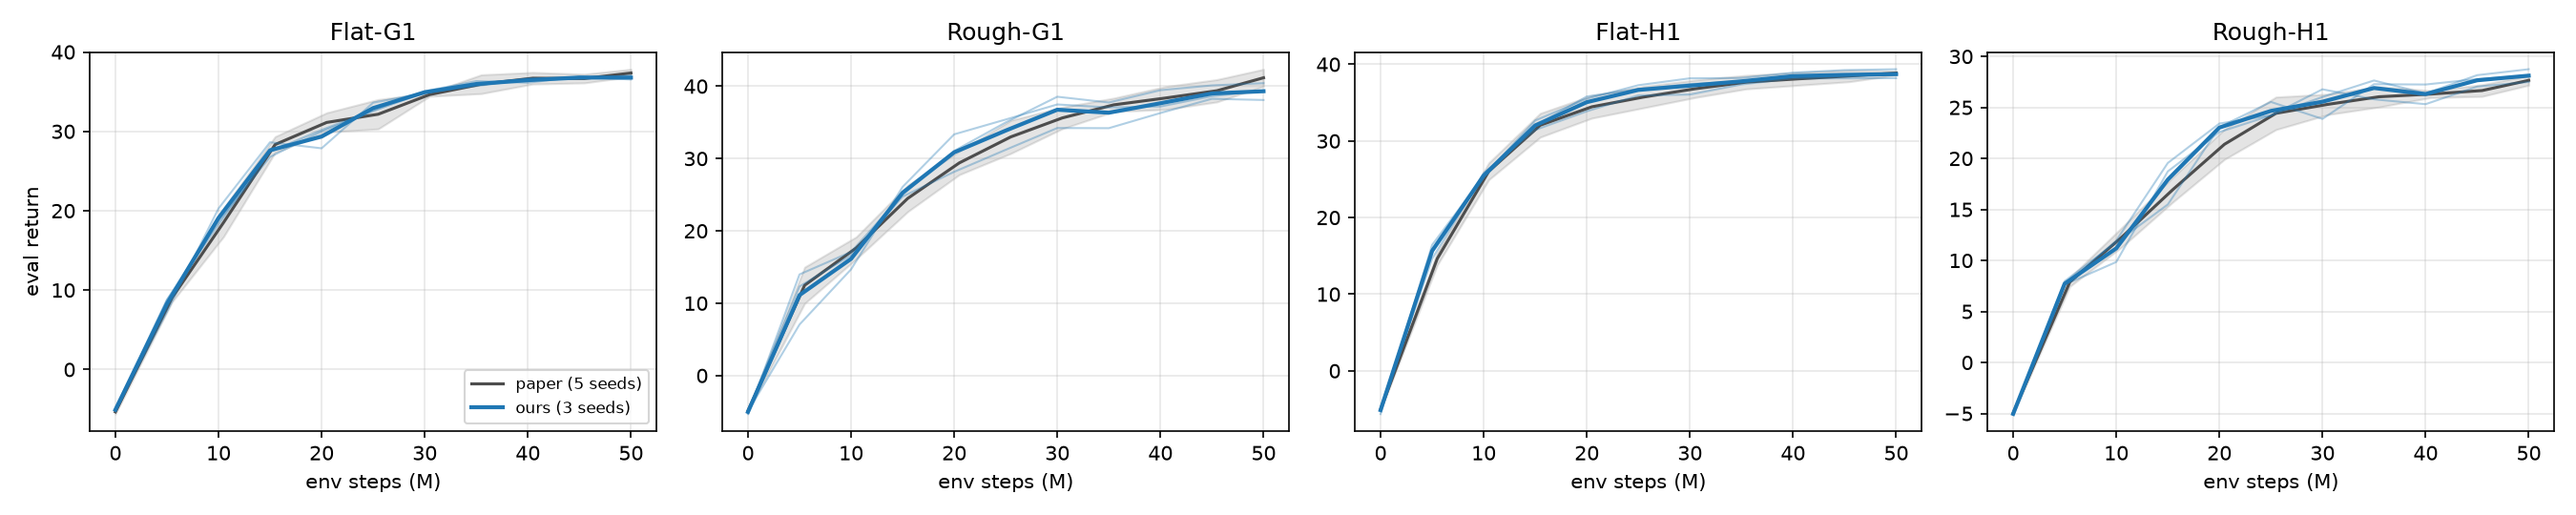
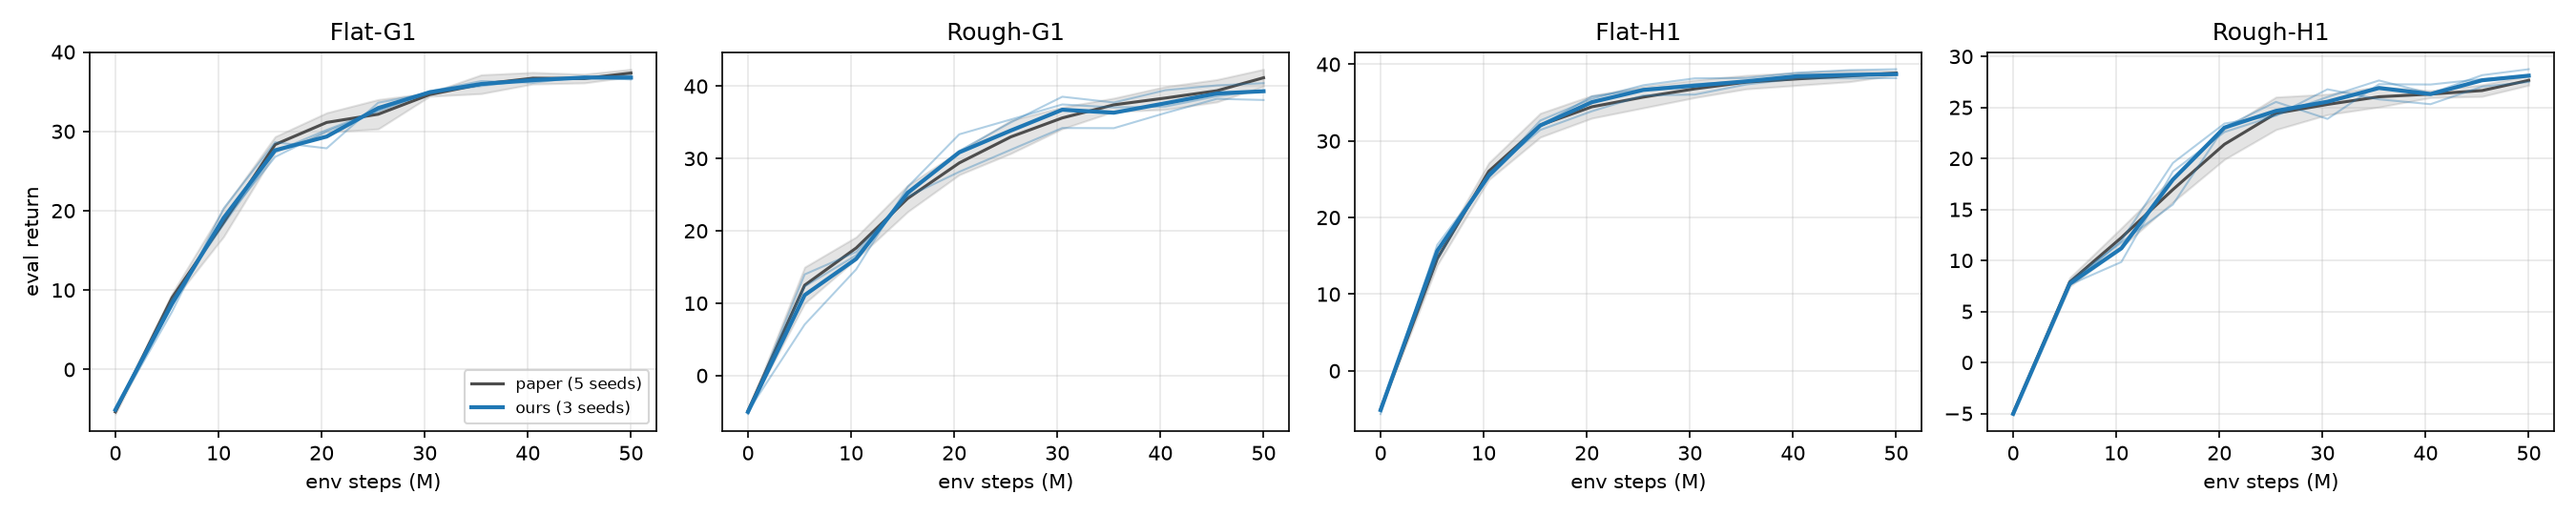
Fix step axis in compare_baseline.py; correct baseline AUC
8f03d7f plotted our evals at eval_env_step (5.00M, ...) but the paper CSV records
them at the next logging step (5.50M, ...). That shifted our curves ~0.5M steps
left and inflated our AUC. Both now use the logging step.

Corrected AUC, ours (3 seeds) vs paper (5 seeds), gap in combined SE:
  Flat-G1  27.38 vs 27.57 (-0.95)   [was 27.72]
  Rough-G1 28.06 vs 28.24 (-0.22)   [was 28.41]
  Flat-H1  31.05 vs 30.76 (+0.62)   [was 31.38]
  Rough-H1 19.99 vs 19.60 (+1.30)   [was 20.25]
This replaces the AUC numbers behind the claim in 8f03d7f. Returns and final
returns are unchanged; only env_step in uniform_d2_eval.csv changes.

Also: add AUC SD and gap columns, and warn when eval steps are off the paper grid.

diff --git a/scripts/compare_baseline.py b/scripts/compare_baseline.py
@@ -5,7 +5,9 @@ Reads logs/<group>/<exp>/<env>/seed*/metrics.csv (written by CsvTrainerLogger) a
   - <exp>_eval.csv: evaluation returns in the paper's long format (exp_name, env_name, seed, metric, env_step, value),
     so our curves and the paper curves can go through the same plotting code.
   - <exp>_summary.csv: one row per task (final return, normalized AUC, paper numbers, wall-clock, memory).
+    *_gap_z is (ours - paper) / combined standard error of the two means.
   - <exp>_curves.png: return vs. env steps (ours per seed + mean, paper mean +- SD).
+All env_step values are logging steps, as in the paper CSV, not the exact steps at which the evals ran.
 
 usage: python scripts/compare_baseline.py [--exp uniform_d2] [--group humanoid] [--out_dir results/ours]
 """
@@ -32,9 +34,10 @@ def load_run(path: str) -> dict:
     df = pd.read_csv(path)
     seed = int(os.path.basename(os.path.dirname(path)).split("_")[0].removeprefix("seed"))
     evals = df[df["avg_return"].notna()] if "avg_return" in df else df.iloc[0:0]
-    # the eval step is logged with each eval; the initial eval (step 0) and older logs only have the logging step
-    steps = evals["eval_env_step"].fillna(evals["env_step"]) if "eval_env_step" in evals else evals["env_step"]
-    curve = pd.DataFrame({"env_step": steps.values, "avg_return": evals["avg_return"].values})
+    # The paper CSV records an eval at the next logging step (the 5.00M eval at 5.50M, and so on), so use our logging
+    # step too. `eval_env_step` is when the eval really ran; mixing it with the paper's axis shifts our curves ~0.5M
+    # steps left and inflates our AUC. The last row is the mean of the last two evals (49.99M and 50.00M) in both.
+    curve = evals[["env_step", "avg_return"]]
     curve = curve.drop_duplicates("env_step", keep="last").sort_values("env_step")
     last = df.ffill().iloc[-1]  # last logged value of each column
     return {
@@ -56,8 +59,7 @@ def normalized_auc(steps: np.ndarray, returns: np.ndarray, horizon: float = NUM_
     if len(steps) < 2:
         return np.nan
     trapezoid = getattr(np, "trapezoid", None) or np.trapz  # numpy < 2.0 only has trapz
-    # the last eval can land a few interaction steps before the horizon, so accept curves that reach 99% of it
-    return float(trapezoid(returns, steps) / steps[-1]) if steps[-1] >= 0.99 * horizon else np.nan
+    return float(trapezoid(returns, steps) / horizon) if steps[-1] >= horizon - 1024 else np.nan
 
 
 def mean_sd(values: list[float]) -> tuple[float, float, int]:
@@ -65,6 +67,13 @@ def mean_sd(values: list[float]) -> tuple[float, float, int]:
     if len(v) == 0:
         return np.nan, np.nan, 0
     return float(v.mean()), float(v.std(ddof=1)) if len(v) > 1 else np.nan, len(v)
+
+
+def gap_z(ours: tuple[float, float, int], paper: tuple[float, float, int]) -> float:
+    if ours[2] == 0 or paper[2] == 0:
+        return np.nan
+    se = np.sqrt(ours[1] ** 2 / ours[2] + paper[1] ** 2 / paper[2])
+    return (ours[0] - paper[0]) / se if se > 0 else np.nan
 
 
 def main() -> None:
@@ -105,8 +114,11 @@ def main() -> None:
             p_auc.append(normalized_auc(g["env_step"].values, g["value"].values, horizon=g["env_step"].iloc[-1]))
         paper_final, paper_auc = mean_sd(p_final), mean_sd(p_auc)
 
-        # gap in units of the combined standard error; |z| > 2 means "does not match the paper"
-        se = np.sqrt((ours_final[1] ** 2 / max(ours_final[2], 1)) + paper_final[1] ** 2 / paper_final[2])
+        for run in done:
+            extra = set(run["curve"]["env_step"].astype(int)) - set(p["env_step"].astype(int))
+            if extra:
+                print(f"WARNING: {task} seed {run['seed']}: eval steps not on the paper's grid: {sorted(extra)[:5]}")
+
         summary_rows.append(
             {
                 "env_name": task,
@@ -116,10 +128,12 @@ def main() -> None:
                 "final_sd": ours_final[1],
                 "paper_final_mean": paper_final[0],
                 "paper_final_sd": paper_final[1],
-                "final_gap_z": (ours_final[0] - paper_final[0]) / se if se > 0 else np.nan,
+                "final_gap_z": gap_z(ours_final, paper_final),
                 "auc_mean": ours_auc[0],
                 "auc_sd": ours_auc[1],
                 "paper_auc_mean": paper_auc[0],
+                "paper_auc_sd": paper_auc[1],
+                "auc_gap_z": gap_z(ours_auc, paper_auc),
                 "train_time_h": mean_sd([r["train_time_h"] for r in done])[0],
                 "update_time_h": mean_sd([r["update_time_h"] for r in done])[0],
                 "collect_time_h": mean_sd([r["collect_time_h"] for r in done])[0],
